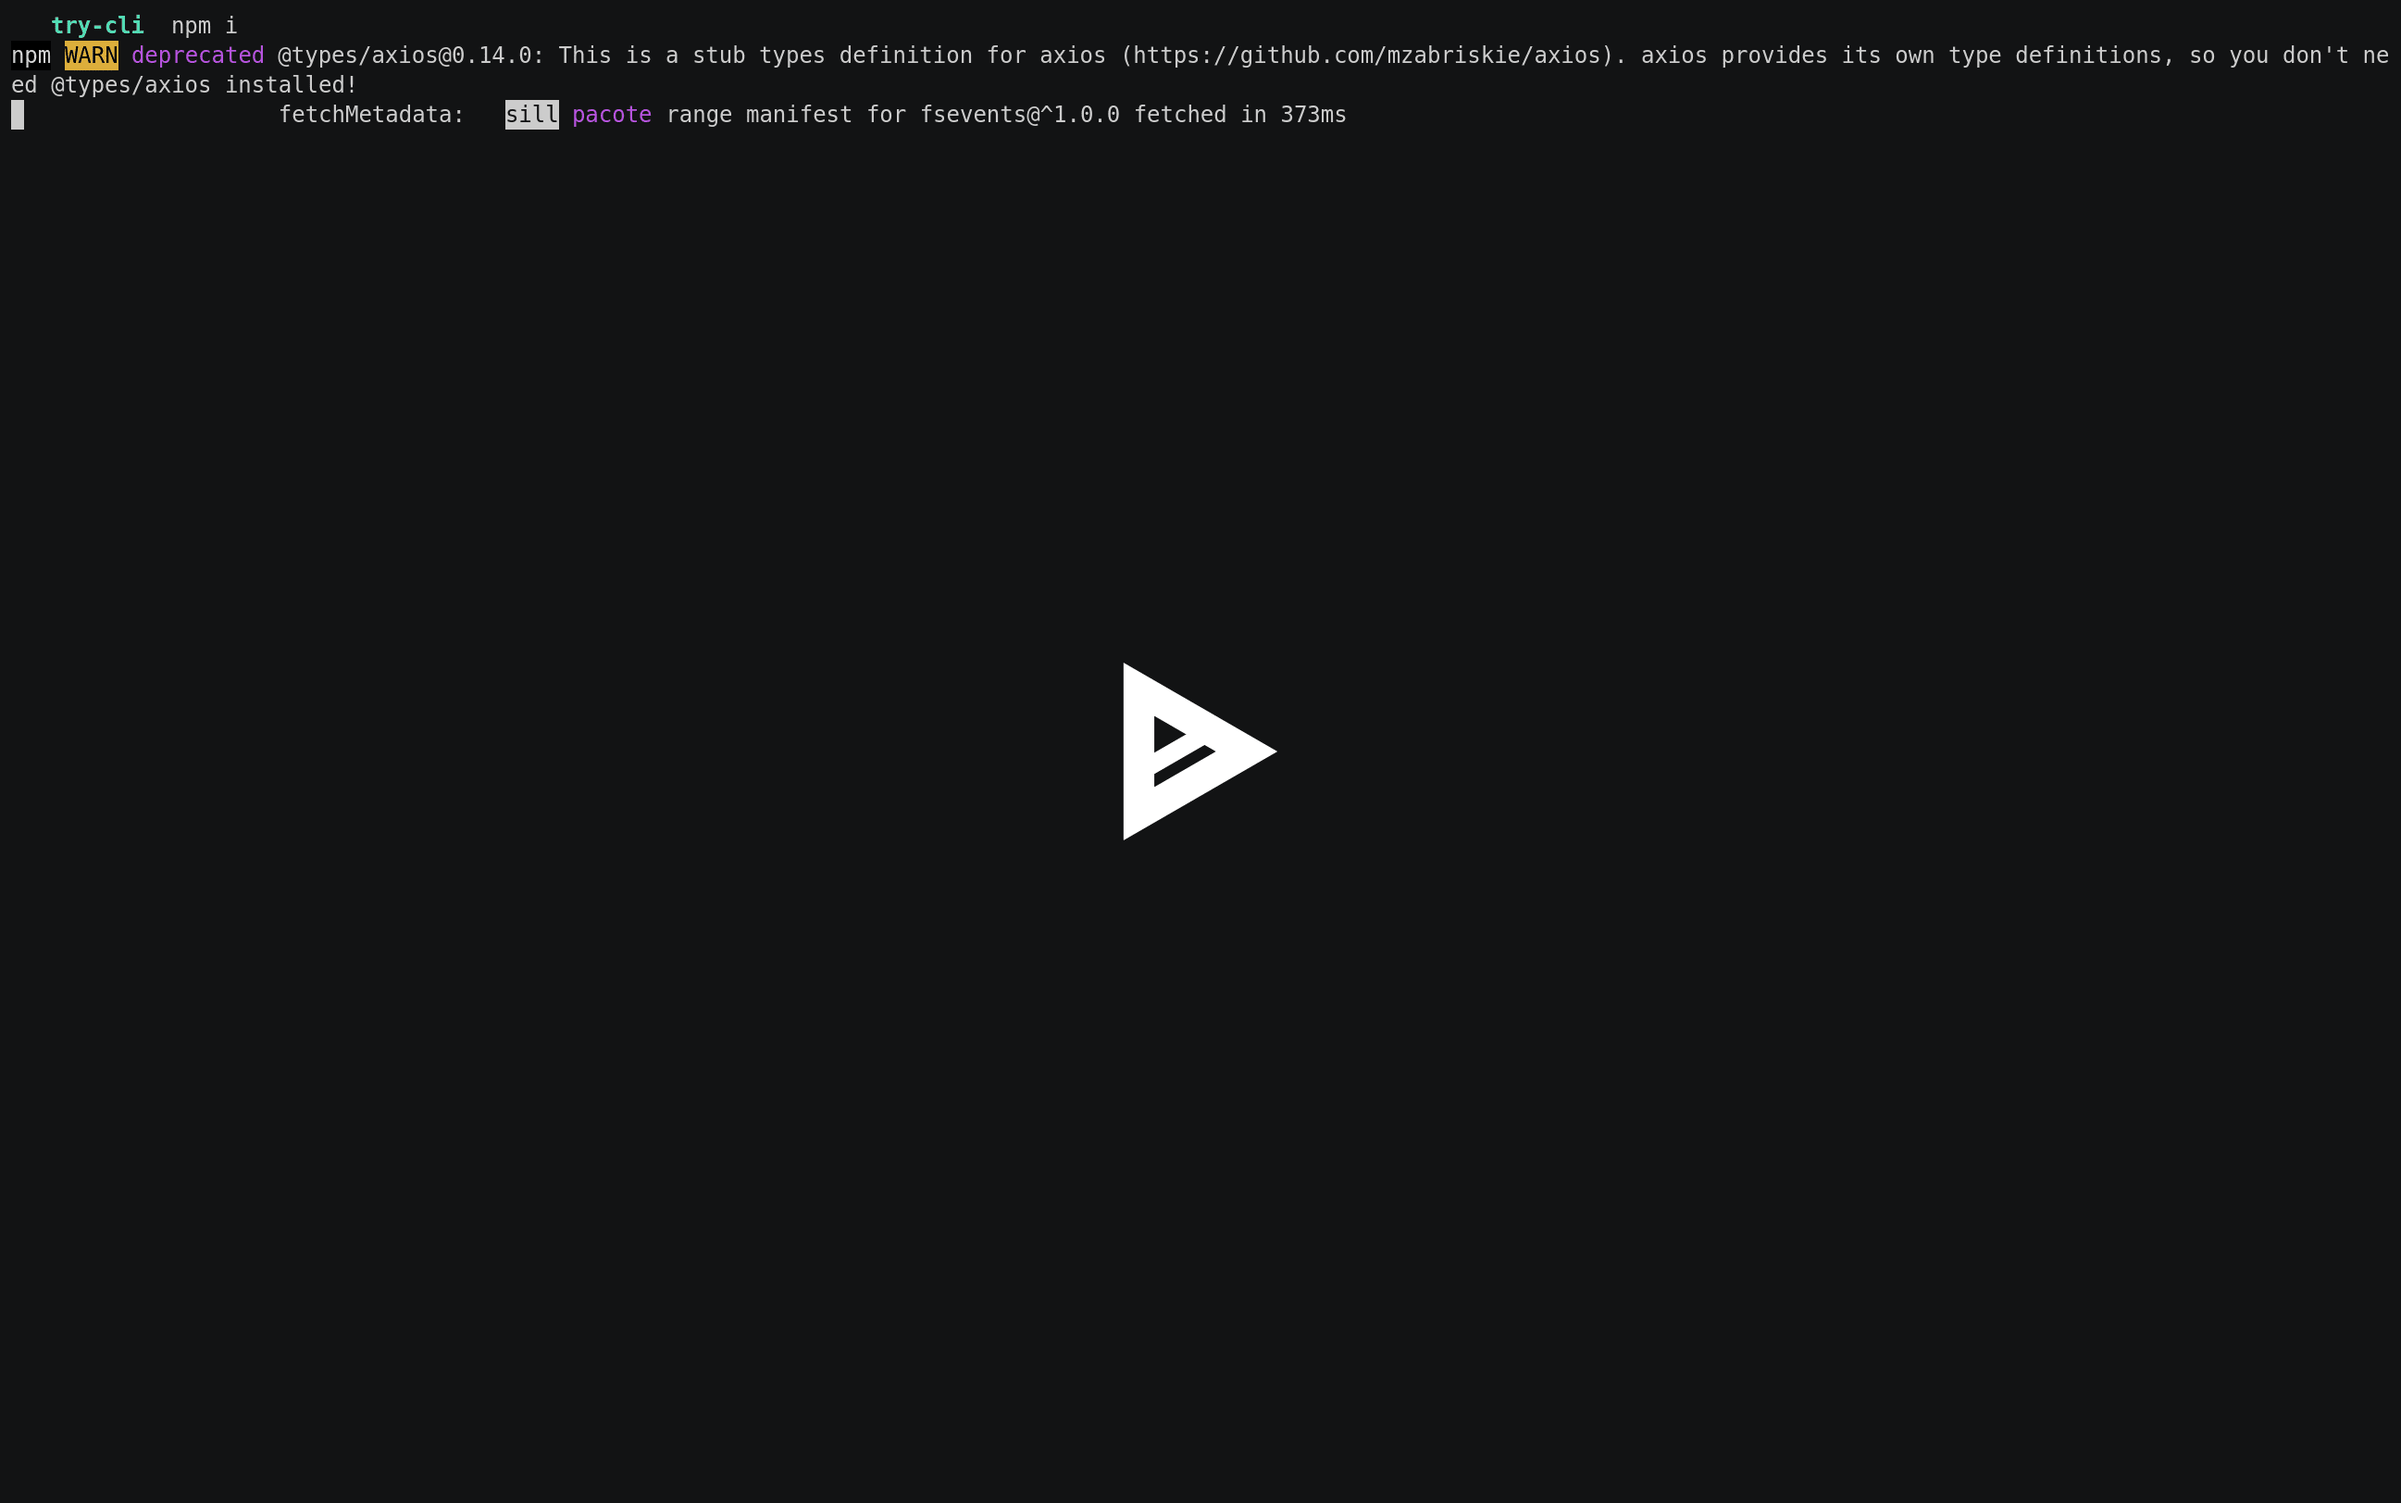
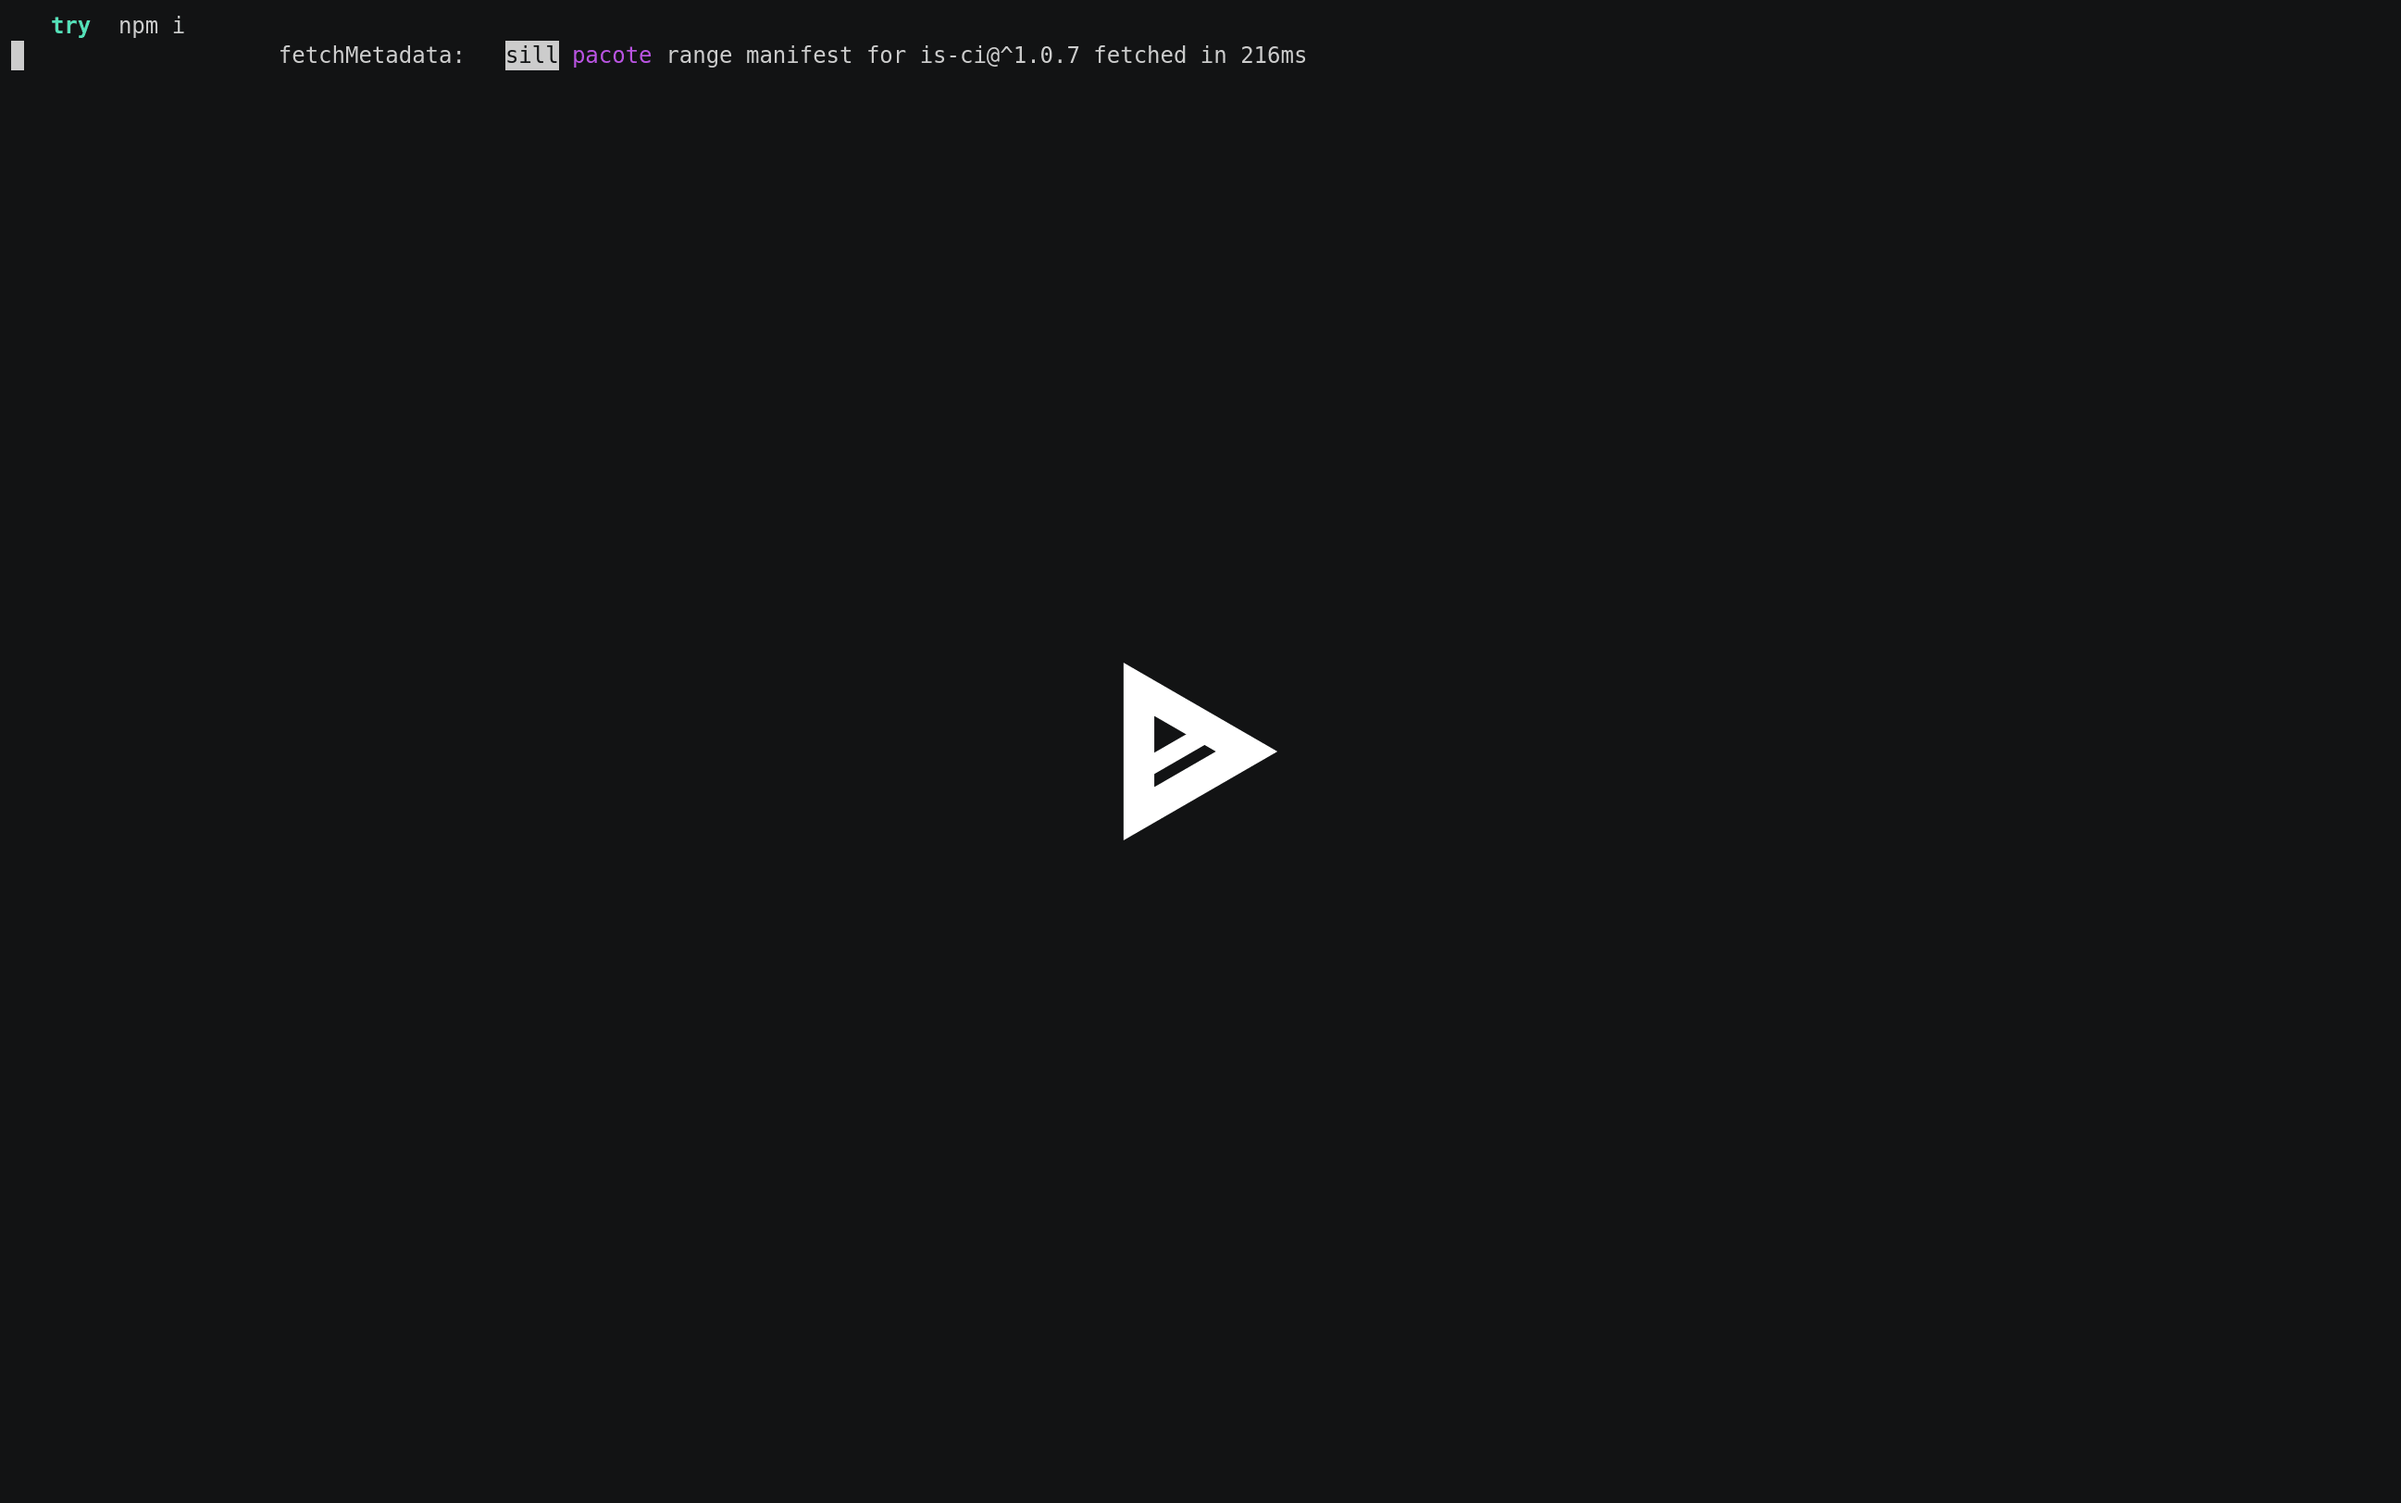
Site updated: 2018-08-25 15:25:58

diff --git a/2018/08/25/command-line-app-in-nodejs/index.html b/2018/08/25/command-line-app-in-nodejs/index.html
@@ -126,7 +126,7 @@
 <meta property="og:image" content="http://aikin.me/2018/08/25/command-line-app-in-nodejs/cz.png">
 <meta property="og:image" content="http://aikin.me/2018/08/25/command-line-app-in-nodejs/cloud-word.png">
 <meta property="og:image" content="http://aikin.me/2018/08/25/command-line-app-in-nodejs/gcli_.png">
-<meta property="og:updated_time" content="2018-08-25T07:02:24.000Z">
+<meta property="og:updated_time" content="2018-08-25T07:24:51.000Z">
 <meta name="twitter:card" content="summary">
 <meta name="twitter:title" content="第一个 NPM 包 - Node.js 交互式命令行应用脚手架生成器">
 <meta name="twitter:description" content="八月！！！ 要月底了~ 博客还没有写。啊啊啊啊…….  写点啥？不知道啊！好吧，去咖啡店找点灵感吧。  灵感来了">
@@ -407,7 +407,7 @@
 <h4 id="技术栈"><a href="#技术栈" class="headerlink" title="技术栈"></a>技术栈</h4><blockquote>
 <p><img src="./cloud-word.png" alt="tech cloud word"></p>
 </blockquote>
-<h4 id="快速开始"><a href="#快速开始" class="headerlink" title="快速开始"></a>快速开始</h4><p><a href="https://asciinema.org/a/198089" target="_blank" rel="noopener"><strong>录屏</strong></a></p>
+<h4 id="快速开始"><a href="#快速开始" class="headerlink" title="快速开始"></a>快速开始</h4><p><a href="https://asciinema.org/a/198099" target="_blank" rel="noopener"><strong>录屏</strong></a></p>
 <p><img src="./gcli_.png" alt="asciicast"></p>
 <p><strong>安装</strong>：<br><figure class="highlight bash"><table><tr><td class="gutter"><pre><span class="line">1</span><br></pre></td><td class="code"><pre><span class="line">$ npm i @aikin/gcli_ -g</span><br></pre></td></tr></table></figure></p>
 <p><strong>生成命令行脚手架</strong>：<br><figure class="highlight plain"><table><tr><td class="gutter"><pre><span class="line">1</span><br><span class="line">2</span><br><span class="line">3</span><br><span class="line">4</span><br><span class="line">5</span><br><span class="line">6</span><br><span class="line">7</span><br></pre></td><td class="code"><pre><span class="line">$ mkdir try</span><br><span class="line"></span><br><span class="line">$ cd try</span><br><span class="line"></span><br><span class="line">$ gcli_ G</span><br><span class="line"></span><br><span class="line">$ npm i</span><br></pre></td></tr></table></figure></p>

diff --git a/2016/09/24/dockerize-db-isolation/index.html b/2016/09/24/dockerize-db-isolation/index.html
@@ -97,7 +97,7 @@
 <link href="/css/main.css?v=5.1.1" rel="stylesheet" type="text/css" />
 
 
-  <meta name="keywords" content="dockerize,docker,db," />
+  <meta name="keywords" content="docker,dockerize,db," />
 
 
 
@@ -116,7 +116,7 @@
 
 
 <meta name="description" content="上一篇容器化开发环境 - 数据库连接和迁移分享了关于如何给容器中的应用创建数据库连接，接下来将分享一下如何将数据库从应用容器中分离出来。 为什么要进行分离？当应用和数据库在同一个容器中运行时，也就意味着，应用和数据库的生命周期捆绑在了一起，应用和数据库的运行就会出现相互干扰现象，应用的异常将有可能导致容器的停止，同时也将导致数据库的关闭。更主要的原因是，很多时候需要多个容器中的应用连接一个数据库，">
-<meta name="keywords" content="dockerize,docker,db">
+<meta name="keywords" content="docker,dockerize,db">
 <meta property="og:type" content="article">
 <meta property="og:title" content="容器化开发环境 - 应用和数据库隔离">
 <meta property="og:url" content="http://aikin.me/2016/09/24/dockerize-db-isolation/index.html">
@@ -467,9 +467,9 @@
       
         <div class="post-tags">
           
-            <a href="/tags/dockerize/" rel="tag"># dockerize</a>
-          
             <a href="/tags/docker/" rel="tag"># docker</a>
+          
+            <a href="/tags/dockerize/" rel="tag"># dockerize</a>
           
             <a href="/tags/db/" rel="tag"># db</a>
           

diff --git a/2016/07/20/dockerize-dev-env/index.html b/2016/07/20/dockerize-dev-env/index.html
@@ -97,7 +97,7 @@
 <link href="/css/main.css?v=5.1.1" rel="stylesheet" type="text/css" />
 
 
-  <meta name="keywords" content="dockerize,docker," />
+  <meta name="keywords" content="docker,dockerize," />
 
 
 
@@ -116,7 +116,7 @@
 
 
 <meta name="description" content="有没有过项目之间各种Java版本开发环境切换的场景；有没有过github上clone回来的代码库，由于各种开发环境依赖无法运行的问题；有没有过进入一个新项目时各种配开发环境到深夜的经历…Come On!为什么会这样，一切都是开发环境问题。为了不让别人痛苦，更不想让自己痛苦，请容器化开发环境吧，让我们享受一键部署开发环境的痛快吧。 用什么容器化呢？当然是Docker啦，轻量级又好用，又流行，最关键点">
-<meta name="keywords" content="dockerize,docker">
+<meta name="keywords" content="docker,dockerize">
 <meta property="og:type" content="article">
 <meta property="og:title" content="容器化开发环境">
 <meta property="og:url" content="http://aikin.me/2016/07/20/dockerize-dev-env/index.html">
@@ -456,9 +456,9 @@
       
         <div class="post-tags">
           
-            <a href="/tags/dockerize/" rel="tag"># dockerize</a>
-          
             <a href="/tags/docker/" rel="tag"># docker</a>
+          
+            <a href="/tags/dockerize/" rel="tag"># dockerize</a>
           
         </div>
       

diff --git a/css/main.css b/css/main.css
@@ -1684,7 +1684,7 @@ pre .javascript .function {
   width: 4px;
   height: 4px;
   border-radius: 50%;
-  background: #8b906f;
+  background: #7a2fff;
 }
 .links-of-blogroll {
   font-size: 13px;

diff --git a/tags/db/index.html b/tags/db/index.html
@@ -608,6 +608,3 @@
 
 </body>
 </html>
-
-</body>
-</html>
